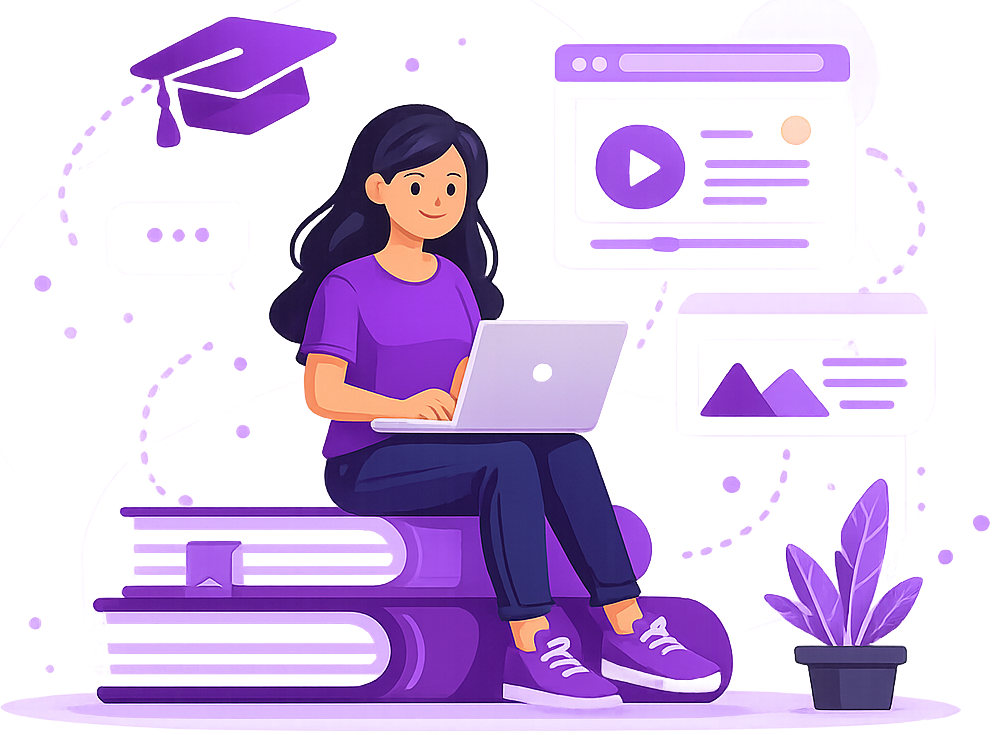
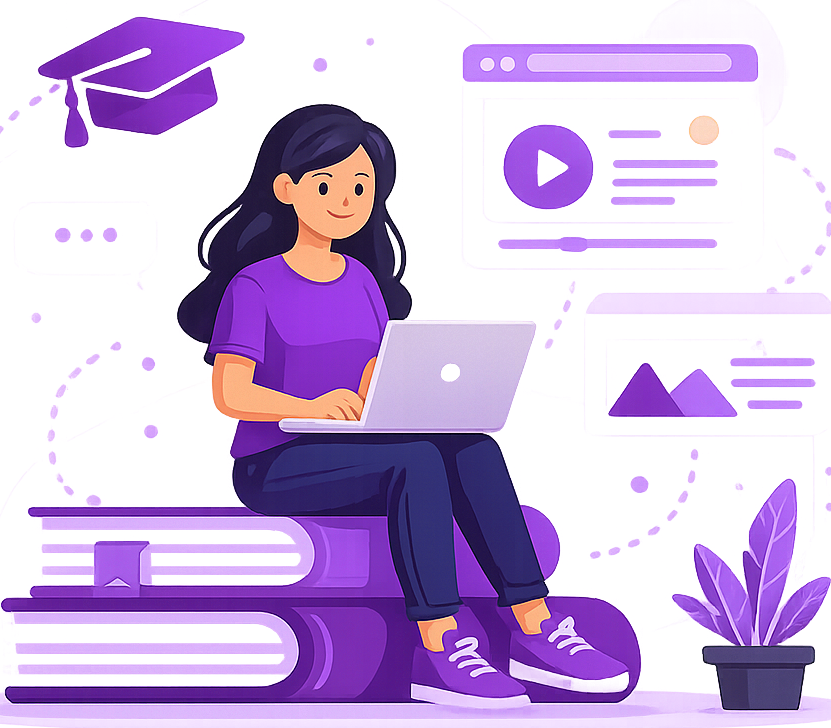
added Home page and updated Login pain and Register Page

diff --git a/client/src/pages/Register.jsx b/client/src/pages/Register.jsx
@@ -39,7 +39,7 @@ function Register() {
         },
       );
 
-      console.log(response.data);
+      localStorage.setItem("token", response.data.token);
 
       navigate("/dashboard");
     } catch (err) {
@@ -50,8 +50,8 @@ function Register() {
   };
   return (
     <div className="h-screen overflow-y-auto bg-[#D8C8EB] flex items-center justify-center px-4 py-8 sm:px-6 lg:px-10 lg:py-0">
-      <div className="max-w-7xl w-full grid lg:grid-cols-2 gap-6 sm:gap-8 lg:gap-10 items-center">
-        <div className="flex flex-col items-center text-center lg:items-start lg:text-left">
+      <div className="max-w-7xl w-full grid lg:grid-cols-2 gap-6 sm:gap-8 lg:gap-10 items-center lg:px-20">
+        <div className="flex flex-col items-center text-center lg:items-start lg:text-left object-contain">
           <h1 className="text-4xl sm:text-5xl lg:text-[50px] font-bold leading-tight">
             Learn. Grow.
             <br />
@@ -68,24 +68,24 @@ function Register() {
           <img
             src={studentImage}
             alt="Student"
-            className="hidden lg:block w-72 sm:w-96 lg:w-120 h-auto lg:h-80 mt-6 lg:mt-8 object-contain"
+            className="hidden lg:block w-72 sm:w-96 lg:w-100 h-auto lg:h-80 mt-6 lg:mt-8"
           />
         </div>
 
-        <div className="bg-white rounded-2xl lg:rounded-3xl shadow-xl p-6 sm:p-8 lg:p-10 max-w-md sm:max-w-xl mx-auto w-full">
-          <div className="text-center mb-8 sm:mb-10">
-            <h2 className="text-3xl sm:text-4xl font-poppins font-bold">
+        <div className="bg-white rounded-2xl lg:rounded-3xl shadow-xl p-3 sm:p-4 lg:p-5 max-w-md sm:max-w-xl mx-auto w-full">
+          <div className="text-center mb-3 sm:mb-4">
+            <h2 className="text-2xl sm:text-3xl font-poppins font-bold">
               Welcome!
             </h2>
 
-            <p className="text-gray-500 mt-2 text-sm sm:text-base">
+            <p className="text-gray-500 mt-1.5 text-xs sm:text-sm">
               Please fill in your details to register
             </p>
           </div>
 
-          <form className="space-y-6" onSubmit={handleSubmit}>
+          <form className="space-y-2.5 sm:space-y-3" onSubmit={handleSubmit}>
             <div>
-              <label className="block text-base sm:text-lg font-poppins font-bold mb-2">
+              <label className="block text-sm sm:text-base font-poppins font-bold mb-1">
                 Full Name
               </label>
 
@@ -95,12 +95,12 @@ function Register() {
                 name="name"
                 value={formData.name}
                 onChange={handleChange}
-                className="w-full border border-gray-800 rounded-xl px-4 py-3 text-sm sm:text-base focus:outline-none focus:ring-2 focus:ring-purple-500 shadow-[0_4px_8px_rgba(0,0,0,0.15)]"
+                className="w-full border border-gray-800 rounded-xl px-4 py-2.5 text-xs sm:text-sm focus:outline-none focus:ring-2 focus:ring-purple-500 shadow-[0_4px_8px_rgba(0,0,0,0.15)]"
               />
             </div>
 
             <div>
-              <label className="block text-base sm:text-lg font-poppins font-bold mb-2">
+              <label className="block text-sm sm:text-base font-poppins font-bold mb-1">
                 Email Address
               </label>
 
@@ -110,12 +110,12 @@ function Register() {
                 name="email"
                 value={formData.email}
                 onChange={handleChange}
-                className="w-full border border-gray-800 rounded-xl px-4 py-3 text-sm sm:text-base focus:outline-none focus:ring-2 focus:ring-purple-500 shadow-[0_4px_8px_rgba(0,0,0,0.15)]"
+                className="w-full border border-gray-800 rounded-xl px-4 py-2.5 text-xs sm:text-sm focus:outline-none focus:ring-2 focus:ring-purple-500 shadow-[0_4px_8px_rgba(0,0,0,0.15)]"
               />
             </div>
 
             <div>
-              <label className="block text-base sm:text-lg font-poppins font-bold mb-2">
+              <label className="block text-sm sm:text-base font-poppins font-bold mb-1">
                 Password
               </label>
 
@@ -125,12 +125,12 @@ function Register() {
                 name="password"
                 value={formData.password}
                 onChange={handleChange}
-                className="w-full border border-gray-800 rounded-xl px-4 py-3 text-sm sm:text-base focus:outline-none focus:ring-2 focus:ring-purple-500 shadow-[0_4px_8px_rgba(0,0,0,0.15)]"
+                className="w-full border border-gray-800 rounded-xl px-4 py-2.5 text-xs sm:text-sm focus:outline-none focus:ring-2 focus:ring-purple-500 shadow-[0_4px_8px_rgba(0,0,0,0.15)]"
               />
             </div>
 
             <div>
-              <label className="block text-base sm:text-lg font-poppins font-bold mb-2">
+              <label className="block text-sm sm:text-base font-poppins font-bold mb-1">
                 Role
               </label>
 
@@ -138,10 +138,11 @@ function Register() {
                 name="role"
                 value={formData.role}
                 onChange={handleChange}
-                className="w-full border border-gray-800 rounded-xl px-4 py-3 text-sm sm:text-base bg-white focus:outline-none focus:ring-2 focus:ring-purple-500 shadow-[0_4px_8px_rgba(0,0,0,0.15)]"
+                className="w-full border border-gray-800 rounded-xl px-4 py-2.5 text-xs sm:text-sm bg-white focus:outline-none focus:ring-2 focus:ring-purple-500 shadow-[0_4px_8px_rgba(0,0,0,0.15)]"
               >
-                <option value="student">Student</option>
-                <option value="instructor">Instructor</option>
+                  <option value="student">Student</option>
+                  <option value="instructor">Instructor</option>
+                  <option value="admin">Admin</option>
               </select>
             </div>
             {error && (
@@ -150,19 +151,19 @@ function Register() {
             <button
               type="submit"
               disabled={loading}
-              className="w-full bg-[#6B2E93] hover:bg-[#5a257a] text-white py-3 rounded-xl text-base sm:text-lg font-medium transition disabled:opacity-50"
+              className="w-full bg-[#6B2E93] hover:bg-[#5a257a] text-white py-2.5 rounded-xl text-sm sm:text-base font-medium transition disabled:opacity-50"
             >
               {loading ? "Registering..." : "Register"}
             </button>
           </form>
 
-          <div className="flex items-center my-6">
+            <div className="flex items-center my-2.5 sm:my-3">
             <div className="flex-1 h-px bg-gray-300"></div>
             <span className="px-3 text-gray-500">or</span>
             <div className="flex-1 h-px bg-gray-300"></div>
           </div>
 
-          <p className="text-center text-sm sm:text-base text-gray-600">
+          <p className="text-center text-xs sm:text-sm text-gray-600">
             Already have an account?{" "}
             <Link to="/login" className="text-purple-700 font-semibold">
               Login

diff --git a/client/src/pages/Home.jsx b/client/src/pages/Home.jsx
@@ -1,0 +1,135 @@
+import { Link } from "react-router-dom";
+import { BookOpenText, UserRoundKey,CircleDashed,Smartphone } from 'lucide-react';
+
+const highlights = [
+  {
+
+    title: "Structured learning",
+    description:
+      "Organize courses, lessons, and progress in one clean dashboard.",
+      icon: <BookOpenText className="h-6 w-6 text-[#6B2E93]" />
+  },
+  {
+    title: "Role-based access",
+    description:
+      "Students, instructors, and admins each see the tools they need.",
+      icon: <UserRoundKey className="h-6 w-6 text-[#6B2E93]" />
+  },
+  {
+    title: "Progress Tracking",
+    description: "Track learning milestones and course completion.",
+    icon: <CircleDashed className="h-6 w-6 text-[#6B2E93]" />
+  },
+  {
+    title: "Responsive Design",
+    description: "Seamless experience across all devices.",
+    icon: <Smartphone className="h-6 w-6 text-[#6B2E93]" />
+  },
+];
+
+const stats = [
+  { value: "120+", label: "Courses" },
+  { value: "3 roles", label: "Student, instructor, admin" },
+  { value: "24/7", label: "Learning access" },
+];
+
+function Home() {
+  return (
+    <div className="min-h-screen bg-[#F7F3FF] text-slate-900">
+      <main className="min-h-screen">
+        <section className="relative">
+          <div className="absolute inset-0 -z-10 bg-[radial-gradient(circle_at_top_left,rgba(107,46,147,0.18),transparent_35%),radial-gradient(circle_at_bottom_right,rgba(0,0,0,0.06),transparent_30%)]" />
+
+          <div className="mx-auto grid max-w-7xl gap-8 px-4 py-12 sm:px-6 sm:py-14 lg:grid-cols-2 lg:items-center lg:gap-12 lg:px-8 lg:py-24">
+            <div className="max-w-2xl">
+              <span className="inline-flex items-center rounded-full border border-[#6B2E93]/20 bg-white px-3 py-1 text-xs font-medium text-[#6B2E93] shadow-sm sm:px-4 sm:text-sm">
+                EduCore Learning Platform
+              </span>
+
+              <h1 className="mt-5 text-3xl font-bold leading-tight sm:mt-6 sm:text-5xl lg:text-6xl">
+                Learn with structure.
+                <span className="block text-[#6B2E93]">
+                  Teach with control.
+                </span>
+              </h1>
+
+              <p className="mt-4 max-w-xl text-sm leading-6 text-slate-600 sm:mt-6 sm:text-lg sm:leading-7">
+                EduCore gives students a clear learning path, instructors a
+                simple course workflow, and admins the controls they need to
+                manage the platform securely.
+              </p>
+
+              <div className="mt-6 flex flex-col gap-3 sm:mt-8 sm:flex-row sm:gap-4">
+                <Link
+                  to="/register"
+                  className="inline-flex items-center justify-center rounded-xl bg-[#6B2E93] px-5 py-2.5 text-sm font-semibold text-white shadow-lg shadow-[#6B2E93]/25 transition hover:bg-[#5a257a] sm:px-6 sm:py-3 sm:text-base"
+                >
+                  Get Started
+                </Link>
+                <Link
+                  to="/login"
+                  className="inline-flex items-center justify-center rounded-xl border border-slate-300 bg-white px-5 py-2.5 text-sm font-semibold text-slate-900 transition hover:border-[#6B2E93] hover:text-[#6B2E93] sm:px-6 sm:py-3 sm:text-base"
+                >
+                  Sign In
+                </Link>
+              </div>
+
+              <div className="mt-8 grid gap-3 sm:mt-10 sm:grid-cols-3 sm:gap-4">
+                {stats.map((stat) => (
+                  <div
+                    key={stat.label}
+                    className="rounded-2xl border border-white/70 bg-white/80 p-3 shadow-sm backdrop-blur sm:p-4"
+                  >
+                    <div className="text-xl font-bold text-[#6B2E93] sm:text-2xl">
+                      {stat.value}
+                    </div>
+                    <div className="mt-1 text-xs text-slate-600 sm:text-sm">
+                      {stat.label}
+                    </div>
+                  </div>
+                ))}
+              </div>
+            </div>
+
+            <div className="relative">
+              <div className="absolute -left-8 top-10 h-28 w-28 rounded-full bg-[#6B2E93]/15 blur-3xl" />
+              <div className="absolute -right-6 bottom-6 h-24 w-24 rounded-full bg-cyan-200/60 blur-3xl" />
+
+              <div className="rounded-4xl border border-white/70 bg-white p-4 shadow-[0_30px_80px_rgba(107,46,147,0.16)] sm:p-6 lg:p-8">
+                <div className="grid gap-3 sm:grid-cols-2 sm:gap-4">
+                  {highlights.map((item, index) => (
+                    <div
+                      key={item.title}
+                      className={`rounded-2xl p-4 sm:p-5 ${index === 0 ? "bg-[#F4ECFF]" : index === 1 ? "bg-[#EEF8F7]" : "bg-[#FFF5E8]"}`}
+                    >
+                      <div className="p-2 h-9 w-9 rounded-xl bg-white shadow-sm sm:h-10 sm:w-10" >
+                        {item.icon}
+                      </div>
+                      <h2 className="text-base font-semibold text-slate-900 sm:text-lg">
+                        {item.title}
+                      </h2>
+                      <p className="mt-2 text-xs leading-5 text-slate-600 sm:text-sm sm:leading-6">
+                        {item.description}
+                      </p>
+                    </div>
+                  ))}
+                </div>
+
+                <div className="mt-4 rounded-2xl bg-slate-950 p-4 text-white sm:mt-6 sm:p-6">
+                  <p className="text-xs uppercase tracking-[0.2em] text-white/60 sm:text-sm">
+                    Platform focus
+                  </p>
+                  <p className="mt-2 text-lg font-semibold sm:mt-3 sm:text-2xl">
+                    Everything needed to launch a clean education workflow.
+                  </p>
+                </div>
+              </div>
+            </div>
+          </div>
+        </section>
+      </main>
+    </div>
+  );
+}
+
+export default Home;

diff --git a/client/src/pages/Login.jsx b/client/src/pages/Login.jsx
@@ -44,9 +44,9 @@ function Login() {
 
   return (
     <div className="h-screen overflow-y-auto bg-[#D8C8EB] flex items-center justify-center px-4 py-8 sm:px-6 lg:px-10 lg:py-0">
-      <div className="max-w-7xl w-full grid lg:grid-cols-2 gap-6 sm:gap-8 lg:gap-10 items-center">
+      <div className="max-w-7xl w-full grid lg:grid-cols-2 gap-6 sm:gap-8 lg:gap-10 items-center lg:px-20">
         {/* Left Section */}
-        <div className="flex flex-col items-center text-center lg:items-start lg:text-left">
+        <div className="flex flex-col  items-center text-center lg:items-start lg:text-left object-contain ">
           <h1 className="text-4xl sm:text-5xl lg:text-[50px] font-bold leading-tight">
             Learn. Grow.
             <br />
@@ -61,25 +61,25 @@ function Login() {
           <img
             src={studentImage}
             alt="Student"
-            className="hidden lg:block w-72 sm:w-96 lg:w-120 h-auto lg:h-80 mt-6 lg:mt-8 object-contain"
+            className="hidden lg:block w-72 sm:w-96 lg:w-100 h-auto lg:h-80 mt-6 lg:mt-8"
           />
         </div>
 
         {/* Right Section */}
-        <div className="bg-white rounded-2xl lg:rounded-3xl shadow-xl p-4 sm:p-7 lg:p-10 max-w-sm sm:max-w-lg lg:max-w-xl mx-auto w-full">
-          <div className="text-center mb-8 sm:mb-10">
-            <h2 className="text-3xl sm:text-4xl font-poppins font-bold">
+        <div className="bg-white rounded-2xl lg:rounded-3xl shadow-xl p-3 sm:p-5 lg:p-6 max-w-sm sm:max-w-lg lg:max-w-xl mx-auto w-full">
+          <div className="text-center mb-5 sm:mb-6">
+            <h2 className="text-2xl sm:text-3xl font-poppins font-bold">
               Welcome!
             </h2>
 
-            <p className="text-gray-500 mt-2 text-sm sm:text-base">
+            <p className="text-gray-500 mt-1.5 text-xs sm:text-sm">
               Login to start your learning journey
             </p>
           </div>
 
-          <form className="space-y-6" onSubmit={handleSubmit}>
+          <form className="space-y-4 sm:space-y-5" onSubmit={handleSubmit}>
             <div>
-              <label className="block text-base sm:text-lg font-poppins font-bold mb-2">
+              <label className="block text-sm sm:text-base font-poppins font-bold mb-1.5">
                 Email Address
               </label>
 
@@ -90,12 +90,12 @@ function Login() {
                 onChange={handleChange}
                 placeholder="Enter your email"
                 required
-                className="w-full border border-gray-800 rounded-xl px-4 py-3 text-sm sm:text-base focus:outline-none focus:ring-2 focus:ring-purple-500 shadow-[0_4px_8px_rgba(0,0,0,0.15)]"
+                className="w-full border border-gray-800 rounded-xl px-4 py-2.5 text-sm focus:outline-none focus:ring-2 focus:ring-purple-500 shadow-[0_4px_8px_rgba(0,0,0,0.15)]"
               />
             </div>
 
             <div>
-              <label className="block text-base sm:text-lg font-poppins font-bold mb-2">
+              <label className="block text-sm sm:text-base font-poppins font-bold mb-1.5">
                 Password
               </label>
 
@@ -106,20 +106,20 @@ function Login() {
                 onChange={handleChange}
                 placeholder="Enter your password"
                 required
-                className="w-full border border-gray-800 rounded-xl px-4 py-3 text-sm sm:text-base focus:outline-none focus:ring-2 focus:ring-purple-500 shadow-[0_4px_8px_rgba(0,0,0,0.15)]"
+                className="w-full border border-gray-800 rounded-xl px-4 py-2.5 text-sm focus:outline-none focus:ring-2 focus:ring-purple-500 shadow-[0_4px_8px_rgba(0,0,0,0.15)]"
               />
             </div>
 
             <button
               type="submit"
               disabled={loading}
-              className="w-full bg-[#6B2E93] hover:bg-[#5a257a] text-white py-3 rounded-xl text-base sm:text-lg font-medium transition"
+              className="w-full bg-[#6B2E93] hover:bg-[#5a257a] text-white py-2.5 rounded-xl text-sm sm:text-base font-medium transition"
             >
               {loading ? "Logging in..." : "Login"}
             </button>
           </form>
 
-          <div className="flex items-center my-6">
+          <div className="flex items-center my-4 sm:my-5">
             <div className="flex-1 h-px bg-gray-300"></div>
 
             <span className="px-3 text-gray-500">or</span>
@@ -127,7 +127,7 @@ function Login() {
             <div className="flex-1 h-px bg-gray-300"></div>
           </div>
 
-          <p className="text-center text-sm sm:text-base text-gray-600">
+          <p className="text-center text-xs sm:text-sm text-gray-600">
             Don't have an account?{" "}
             <Link to="/register" className="text-purple-700 font-semibold">
               Sign up

diff --git a/client/src/App.jsx b/client/src/App.jsx
@@ -1,8 +1,9 @@
 import { BrowserRouter, Routes, Route } from "react-router-dom";
 // import Navbar from "./components/Navbar";
+import Home from "./pages/Home";
 import Register from "./pages/Register";
 import Login from "./pages/Login";
-import { Dashboard } from "./components/Dashboard";
+import { Dashboard } from "./pages/Dashboard";
 import ProtectedRoute from "./components/ProtectedRoute";
 
 const App = () => {
@@ -10,7 +11,7 @@ const App = () => {
     <BrowserRouter>
       {/* <Navbar /> */}
       <Routes>
-        <Route path="/" element={<h1>Home Page</h1>} />
+        <Route path="/" element={<Home />} />
         <Route path="/register" element={<Register />} />
         <Route path="/login" element={<Login />} />
         <Route
